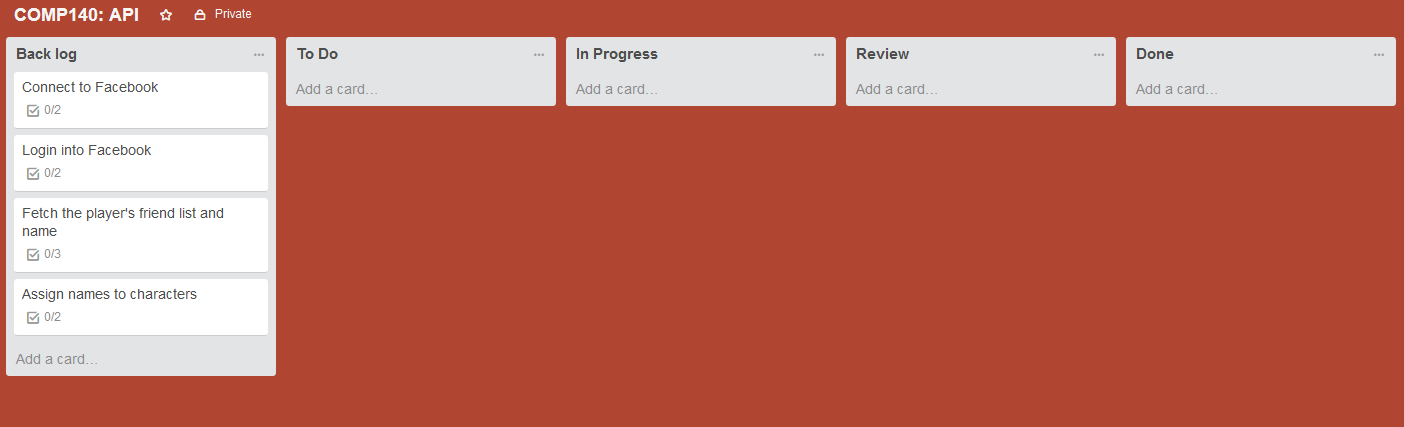
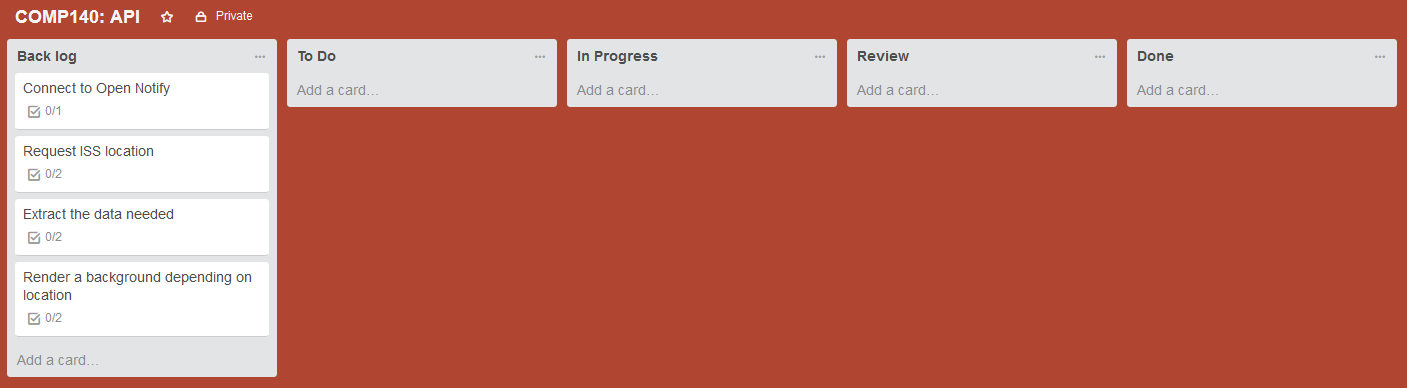
Added comments & new trello board

Changed region(s): [[0.0, 0.0, 1.0, 0.9897]]

diff --git a/API Hacking Code/API Hacking Code/API Hacking Code.cpp b/API Hacking Code/API Hacking Code/API Hacking Code.cpp
@@ -10,19 +10,20 @@ using namespace concurrency::streams;       // Asynchronous streams
 
 int main(int argc, char* argv[])
 {
+	//TODO: 
+	//Handle results using JSON
+	//seperate out into functions
 	auto fileStream = std::make_shared<ostream>();
 
 	// Open stream to output file.
-	pplx::task<void> requestTask = fstream::open_ostream(U("results.html")).then([=](ostream outFile)
+	pplx::task<void> requestTask = fstream::open_ostream(U("results.txt")).then([=](ostream outFile)
 	{
 		*fileStream = outFile;
 
 		// Create http_client to send the request.
 		http_client client(U("http://api.open-notify.org/iss-now.json"));
 
-		// Build request URI and start the request.
-		//uri_builder builder(U("/search"));
-		//builder.append_query(U("q"), U("Casablanca CodePlex"));
+		//Gets reults
 		return client.request(methods::GET);
 	})
 
